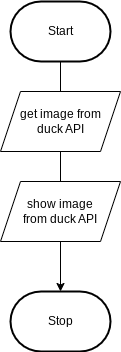
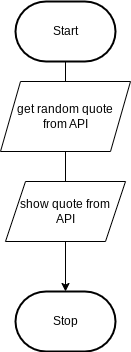
parsing error fix

diff --git a/index.html b/index.html
@@ -13,7 +13,7 @@
     <link rel="icon" type="image/png" sizes="32x32" href="./images/favicon-32x32.png">
     <link rel="icon" type="image/png" sizes="16x16" href="./images/favicon-16x16.png">
     <link rel="manifest" href="/site.webmanifest">
-    <title>Duck Photos</title>
+    <title>Assignment 6</title>
   </head>
   <body>
     <script defer src="https://code.getmdl.io/1.3.0/material.min.js"></script>
@@ -21,14 +21,14 @@
     <div class="mdl-layout mdl-js-layout mdl-layout--fixed-header">
       <header class="mdl-layout__header">
         <div class="mdl-layout__header-row">
-          <span class="mdl-layout-title">Duck photos!</span>
+          <span class="mdl-layout-title">Randomly generated quote</span>
         </div>
       </header>
       <main class="mdl-layout__content">
-        <h1>Here's your randomly generated duck photo!</h1>
+        <h1>Here's your randomly generated quote!</h1>
         <br />
         <br />
-        <div id="duck">
+        <div id="quote">
         </div>
       </main>
     </div>

diff --git a/js/script.js b/js/script.js
@@ -6,15 +6,16 @@
 
 "use strict"
 
-const picture = async(URLAddress) => {
+const quote = async(URLAddress) => {
   try {
     const result = await fetch(URLAddress)
     const jsonData = await result.json()
     console.log(jsonData)
-    document.getElementById("duck").innerHTML = '<img src="' + jsonData.url + '" alt="Image" class="center" +'>
+    document.getElementById("quote").innerHTML = "<div>" + jsonData.text + "</div>"
   } catch (error) {
     console.log(error)
+    document.getElementById("quote").innerHTML = "<div> Error </div>"
   }
 }
 
-picture("https://random-d.uk/api/random")
+quote("https://www.jcquotes.com/api/quotes/random")

diff --git a/css/style.css b/css/style.css
@@ -28,10 +28,6 @@
   font-size: 1.25rem;
 }
 
-img {
-  float: right;
-}
-
 body {
   background-color: white;
 }
